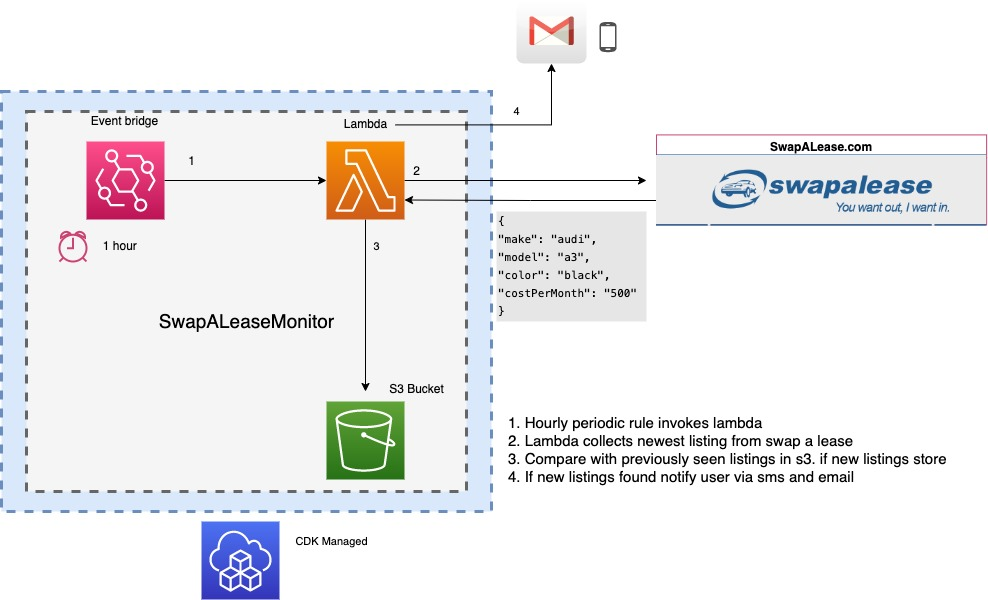
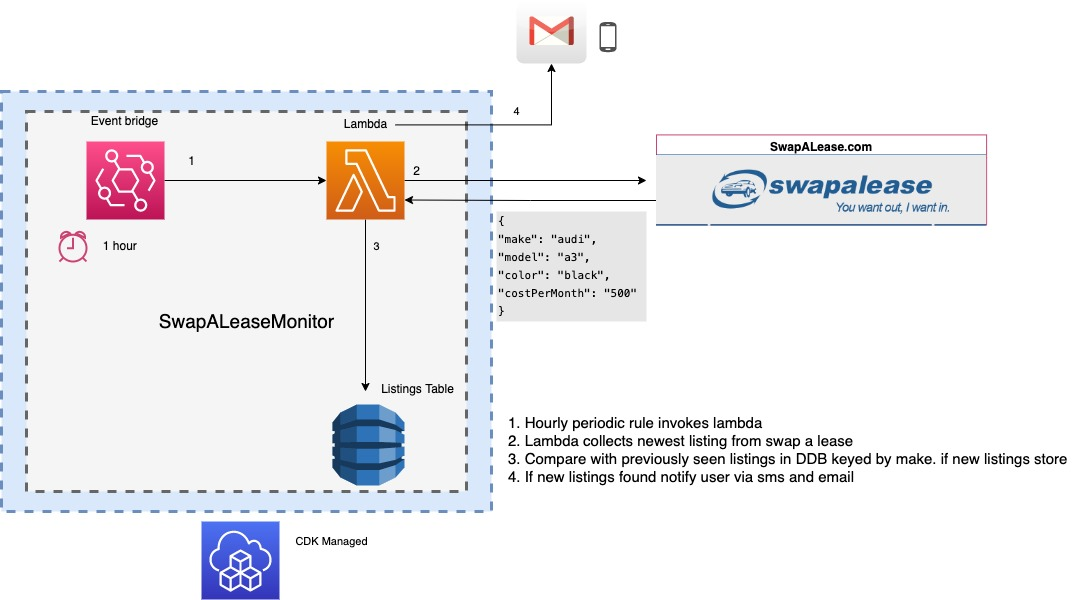
Move to DDB from S3 fopr listing persistence

diff --git a/lib/swap_a_lease_monitor_stack.ts b/lib/swap_a_lease_monitor_stack.ts
@@ -1,7 +1,7 @@
 import { RemovalPolicy, Stack, StackProps } from 'aws-cdk-lib';
 import { Construct } from 'constructs';
 import { Code, Function, Runtime } from 'aws-cdk-lib/aws-lambda';
-import { Bucket } from 'aws-cdk-lib/aws-s3';
+import { Table, AttributeType } from 'aws-cdk-lib/aws-dynamodb';
 import { Role, ManagedPolicy, ServicePrincipal } from 'aws-cdk-lib/aws-iam';
 import { Rule, Schedule } from 'aws-cdk-lib/aws-events';
 import { LambdaFunction } from 'aws-cdk-lib/aws-events-targets'
@@ -10,13 +10,13 @@ export class SwapALeaseMonitorStack extends Stack {
   constructor(scope: Construct, id: string, props?: StackProps) {
     super(scope, id, props);
 
-    const listingsBucket: Bucket = this.createListingsBucket();
     const swapALeaseMonitorRole: Role = this.createSwapALeaseMonitorLambdaRole();
     const swapALeaseMonitorLambda = this.createSwapALeaseMonitorLambda(swapALeaseMonitorRole);
-    const periodicTrigger: Rule = this.createPeriodicTrigger();
-
-    listingsBucket.grantReadWrite(swapALeaseMonitorRole);
     
+    const swapALeaseListingsTable = this.createListingsTable();
+    swapALeaseListingsTable.grantFullAccess(swapALeaseMonitorRole);
+    
+    const periodicTrigger: Rule = this.createPeriodicTrigger();
     periodicTrigger.addTarget(new LambdaFunction(swapALeaseMonitorLambda, {
       retryAttempts: 0
     }));
@@ -44,11 +44,11 @@ export class SwapALeaseMonitorStack extends Stack {
     });
   }
 
-  private createListingsBucket(): Bucket {
-    return new Bucket(this, 'SwapALeaseMonitorListingsBucket',{
-      bucketName: "swap-a-lease-listings",
-      removalPolicy: RemovalPolicy.DESTROY, 
-      autoDeleteObjects: true
+  private createListingsTable(): Table {
+    return new Table(this, 'SwapALeaseListingsTable', {
+      partitionKey: {name: "make", type: AttributeType.STRING},
+      tableName: "SwapALeaseListingsTable", 
+      removalPolicy: RemovalPolicy.DESTROY
     });
   }
 

diff --git a/test/swap_a_lease_monitor_cdk.test.ts b/test/swap_a_lease_monitor_cdk.test.ts
@@ -16,10 +16,10 @@ test('HelloFunction Created', () => {
     });
 });
 
-test('ListingsBucket Created', () => {
+test('ListingsTable Created', () => {
     const template = Template.fromStack(stack);
-    template.hasResourceProperties('AWS::S3::Bucket', {
-      BucketName: "swap-a-lease-listings"
+    template.hasResourceProperties('AWS::DynamoDB::Table', {
+      TableName: "SwapALeaseListingsTable"
     })
 });
 
